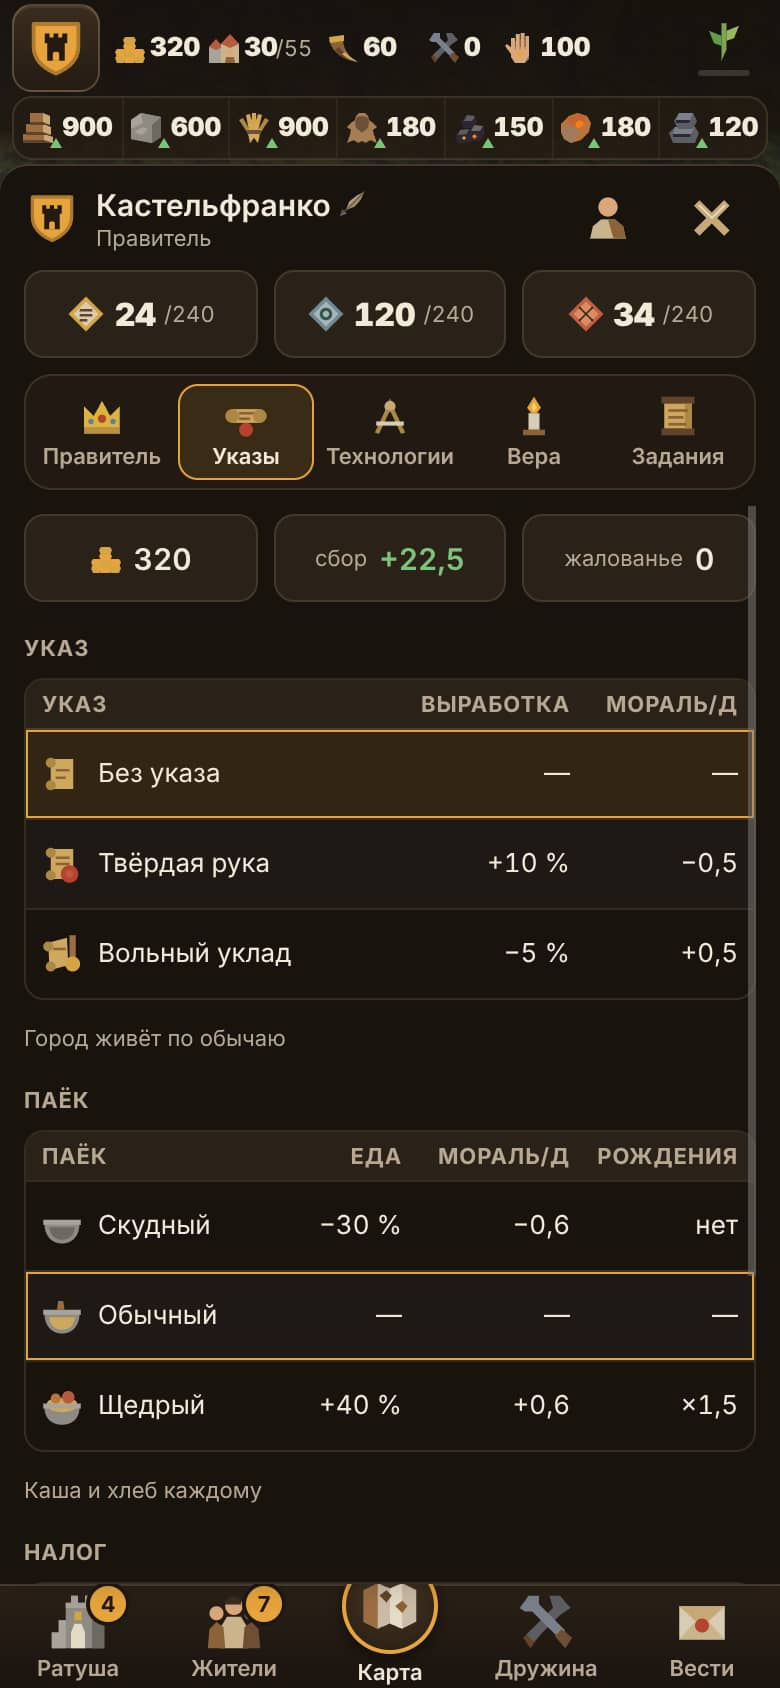
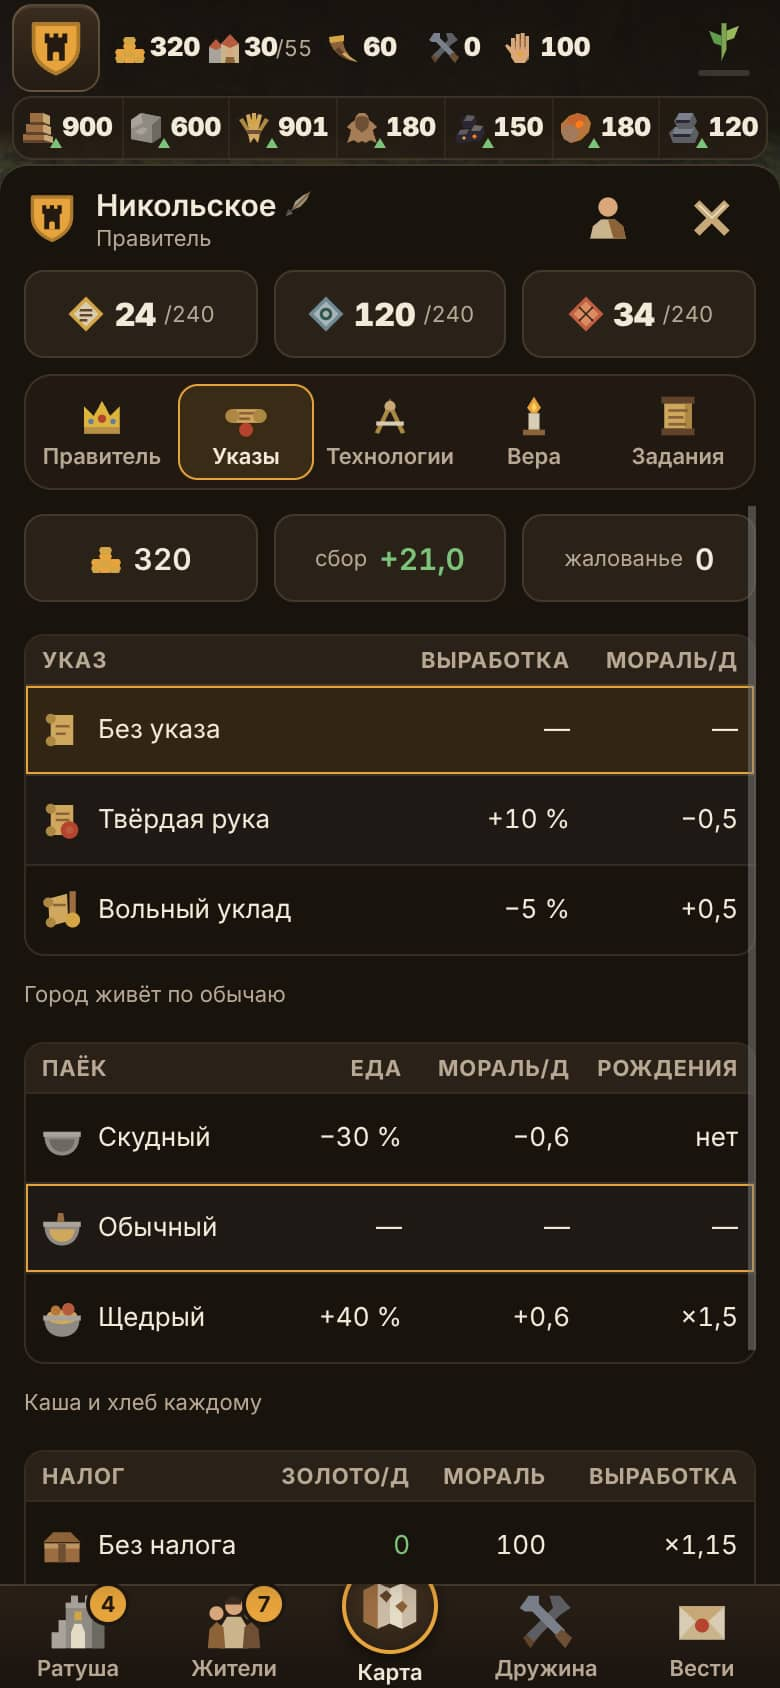
UI-7 (шаг): «Указы» державы — имя выбора шапкой таблицы («Указ · Паёк · Налог»), без второго заголовка над ней, как в профиле; снимки указов «после» пересняты после правок 1d06ec2 (столбцы не обрезаются)
Claude-Session: https://claude.ai/code/session_0151VoHdT1keCZou5wFPoo6a

diff --git a/src/ui/realm/RealmTabs.tsx b/src/ui/realm/RealmTabs.tsx
@@ -275,7 +275,7 @@ export function DecreesNew() {
         </button>
       </div>
 
-      <h3>Указ</h3>
+      {/* Имя выбора — шапкой таблицы («Указ», «Паёк», «Налог»): заголовок над ней повторял бы его. */}
       <Table
         label="Указ"
         cols={DECREE_COLS}
@@ -286,7 +286,6 @@ export function DecreesNew() {
       />
       <p className="nx-pnote">{decreeLine(decree)}</p>
 
-      <h3>Паёк</h3>
       <Table
         label="Паёк"
         cols={RATION_COLS}
@@ -297,7 +296,6 @@ export function DecreesNew() {
       />
       <p className="nx-pnote">{rationLine(ration)}</p>
 
-      <h3>Налог</h3>
       <Table
         label="Налог"
         cols={TAX_COLS}

diff --git a/src/ui/realm/realm-new.css b/src/ui/realm/realm-new.css
@@ -542,6 +542,11 @@
   grid-template-columns: repeat(3, 1fr);
   gap: 8px;
 }
+/* Таблицы указов без заголовка над ними (имя — шапкой таблицы): отступ вместо заголовка. */
+.nx-ledger + .kit-table,
+.nx-pnote + .kit-table {
+  margin-top: 8px;
+}
 .nx-lcell {
   display: flex;
   align-items: center;
